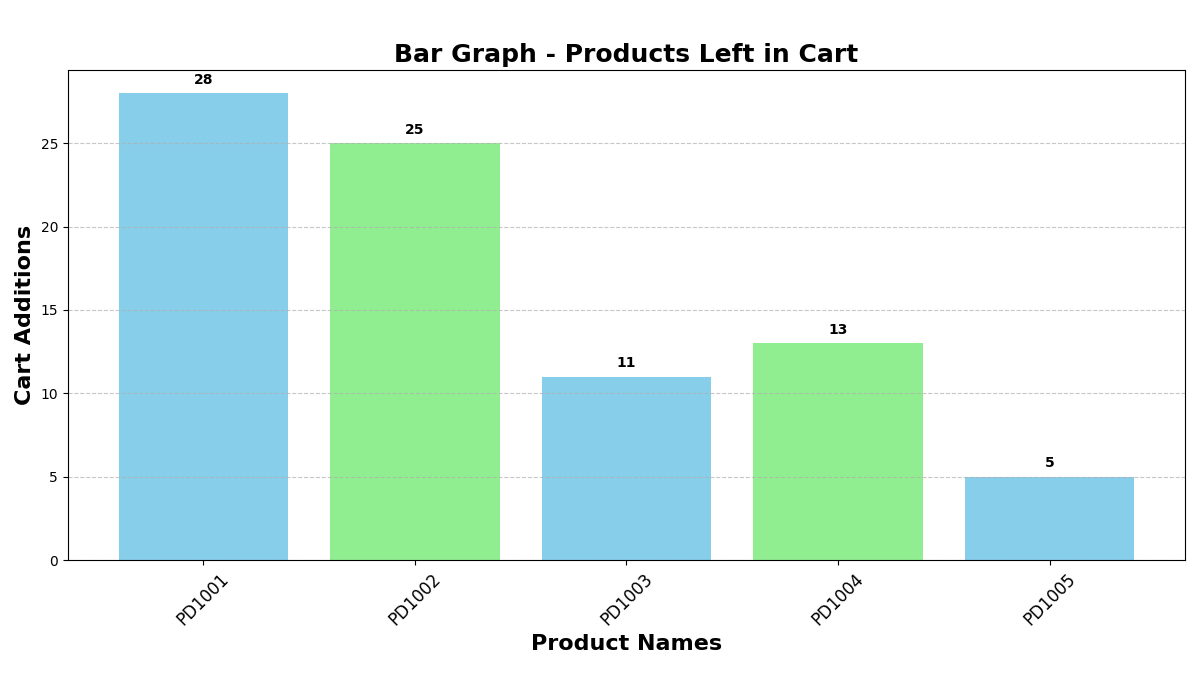
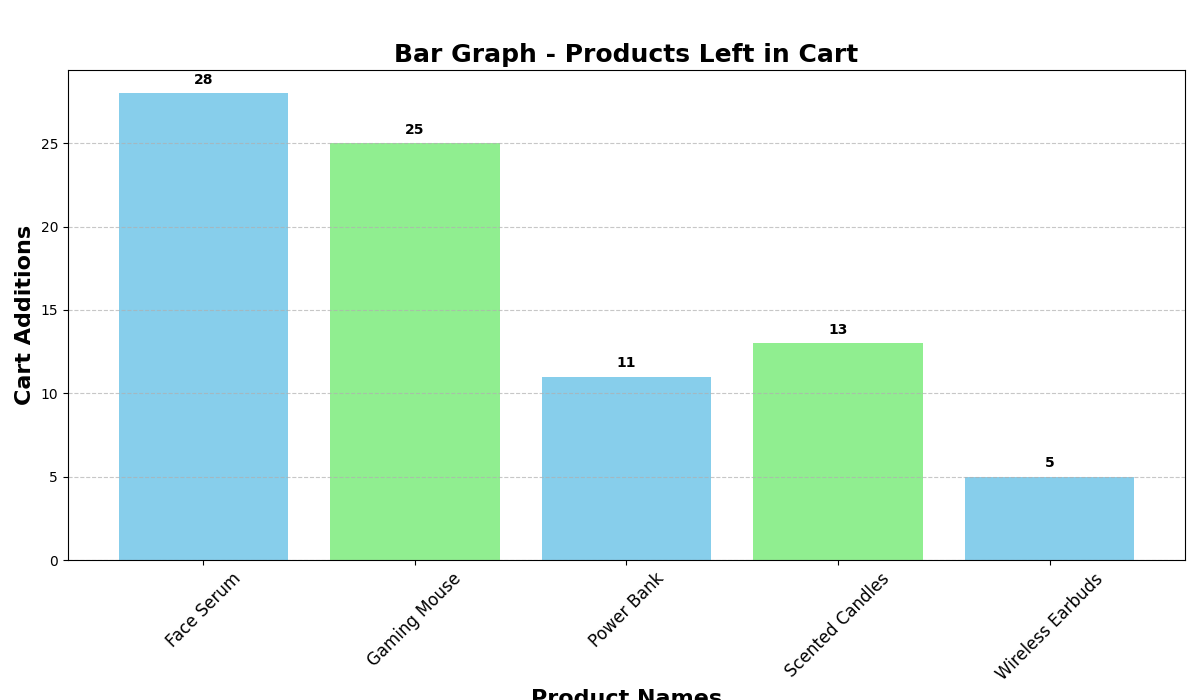
productid renamed

diff --git a/templates/detailed_sections/2.1.2.html b/templates/detailed_sections/2.1.2.html
@@ -142,30 +142,49 @@
                     </div>
                     <div class="analysis">
                         <h5>Analysis</h5>
-                        <p>
-                            In this section, we will provide a detailed analysis of the data presented in the table and
-                            graph.
-                            The total searches per product indicate the level of interest and demand for each item.
-                            A higher number of searches suggests that the product is popular among customers, while
-                            lower search numbers may indicate less interest or visibility.
-                        </p>
+
                         <div class="graph">
                             {% if image_exists %}
                             <img src="{{ url_for('static', filename='images/2.1.2.png') }}"
                                 alt="Graph representing total searches per product" style="width: 100%; height: auto;">
                             {% endif %}
                         </div>
-                        <p>
-                            Additionally, trends can be observed over time, allowing for strategic decisions regarding
-                            inventory management and marketing efforts. Understanding these patterns can help optimize
-                            stock levels and improve sales strategies.
-                        </p>
-                        <p>
-                            Furthermore, we can analyze correlations between search volume and sales performance,
-                            which can guide future product launches and promotional activities. By continuously
-                            monitoring these metrics, we can refine our approach and enhance overall business
-                            performance.
-                        </p>
+                        <p>Detailed Stock Level Analysis</p>
+
+                        <p><strong>Analysis Aspects:</strong></p>
+                        <p>• Trends in Stock Levels: Analyze changes in the current stock levels over time for different
+                            products.</p>
+                        <p>• Optimal Stock Level Analysis: Compare the current stock levels with the optimal stock
+                            quantities to identify overstocked or understocked situations.</p>
+                        <p>• Stock Depletion Rates: Determine how quickly stock levels are being depleted for each
+                            product.</p>
+                        <p>• Potential Inventory Issues: Identify products with consistently high or low stock levels
+                            compared to their optimal values.</p>
+                            <div class="graph">
+                                
+                                <img src="{{ url_for('static', filename='images/2.1.2-1.png') }}"
+                                    alt="Graph representing total searches per product" style="width: 100%; height: auto;">
+                              
+                            </div>    
+                            <div class="graph">
+                                
+                                <img src="{{ url_for('static', filename='images/2.1.2-2.png') }}"
+                                    alt="Graph representing total searches per product" style="width: 100%; height: auto;">
+                              
+                            </div>    
+                        <p><strong>Key Findings:</strong></p>
+                        <p>• Overstocked Products:</p>
+                        <p> - All ten products showed periods of being overstocked, with the following details:</p>
+                        <p> - Products PD1001, PD1005, and PD1010 were overstocked for all 31 days in the dataset.</p>
+                        <p> - Products PD1002, PD1003, PD1004, PD1007, PD1008, and PD1009 also experienced significant
+                            overstocking.</p>
+                        <p> - Product PD1006 had the fewest overstocked days.</p>
+                        <p>• Understocked Products: There were no instances of understocking identified in the dataset,
+                            indicating that the current stock levels were consistently equal to or higher than the
+                            optimal stock quantities.</p>
+                        <p>• Stock Trends: The daily changes in stock levels for each product varied, providing insights
+                            into how stock levels were managed over time. This trend information can help identify which
+                            products may need adjustments in replenishment strategies.</p>
 
                     </div>
                 </div>

diff --git a/productidtoname.py b/productidtoname.py
@@ -1,0 +1,32 @@
+import csv,os
+# Step 1: Define the mapping of product IDs to names
+product_mapping = {
+    "PD1001": "Face Serum",
+    "PD1002": "Gaming Mouse",
+    "PD1003": "Power Bank",
+    "PD1004": "Scented Candles",
+    "PD1005": "Wireless Earbuds",
+    "PD1006": "Yoga Mat",
+    "PD1007": "Hydro Bottle",
+    "PD1008": "Running Shoes",
+    "PD1009": "Cotton Sheets",
+    "PD1010": "Comfort Pillow"
+}
+
+# Step 2: Read the input CSV file
+input_filename = 'data/1.3.2.csv'
+output_filename = 'data_processed/1.3.2.csv'
+
+with open(input_filename, 'r') as input_file, open(output_filename, 'w', newline='') as output_file:
+    reader = csv.reader(input_file)
+    writer = csv.writer(output_file)
+
+    # Write the header
+    writer.writerow(["Product Name","Search To Purchase Ratio"])
+    # Process each row in the input file
+    next(reader)  # Skip the header
+    for row in reader:
+        col1, col2= row
+        product_name = product_mapping.get(col1, col1)  # Fallback to product_id if not found
+        writer.writerow([product_name,col2])
+

diff --git a/generate_data.py b/generate_data.py
@@ -25,7 +25,8 @@ def read_csv(file_path,data_length):
         return None, None
 
 def process_tables(data_length):
-    data_directory = "data"
+    # data_directory = "data"
+    data_directory = "data_processed"
     all_data = {}
     csv_files = [f for f in os.listdir(data_directory) if f.endswith('.csv')]
 
